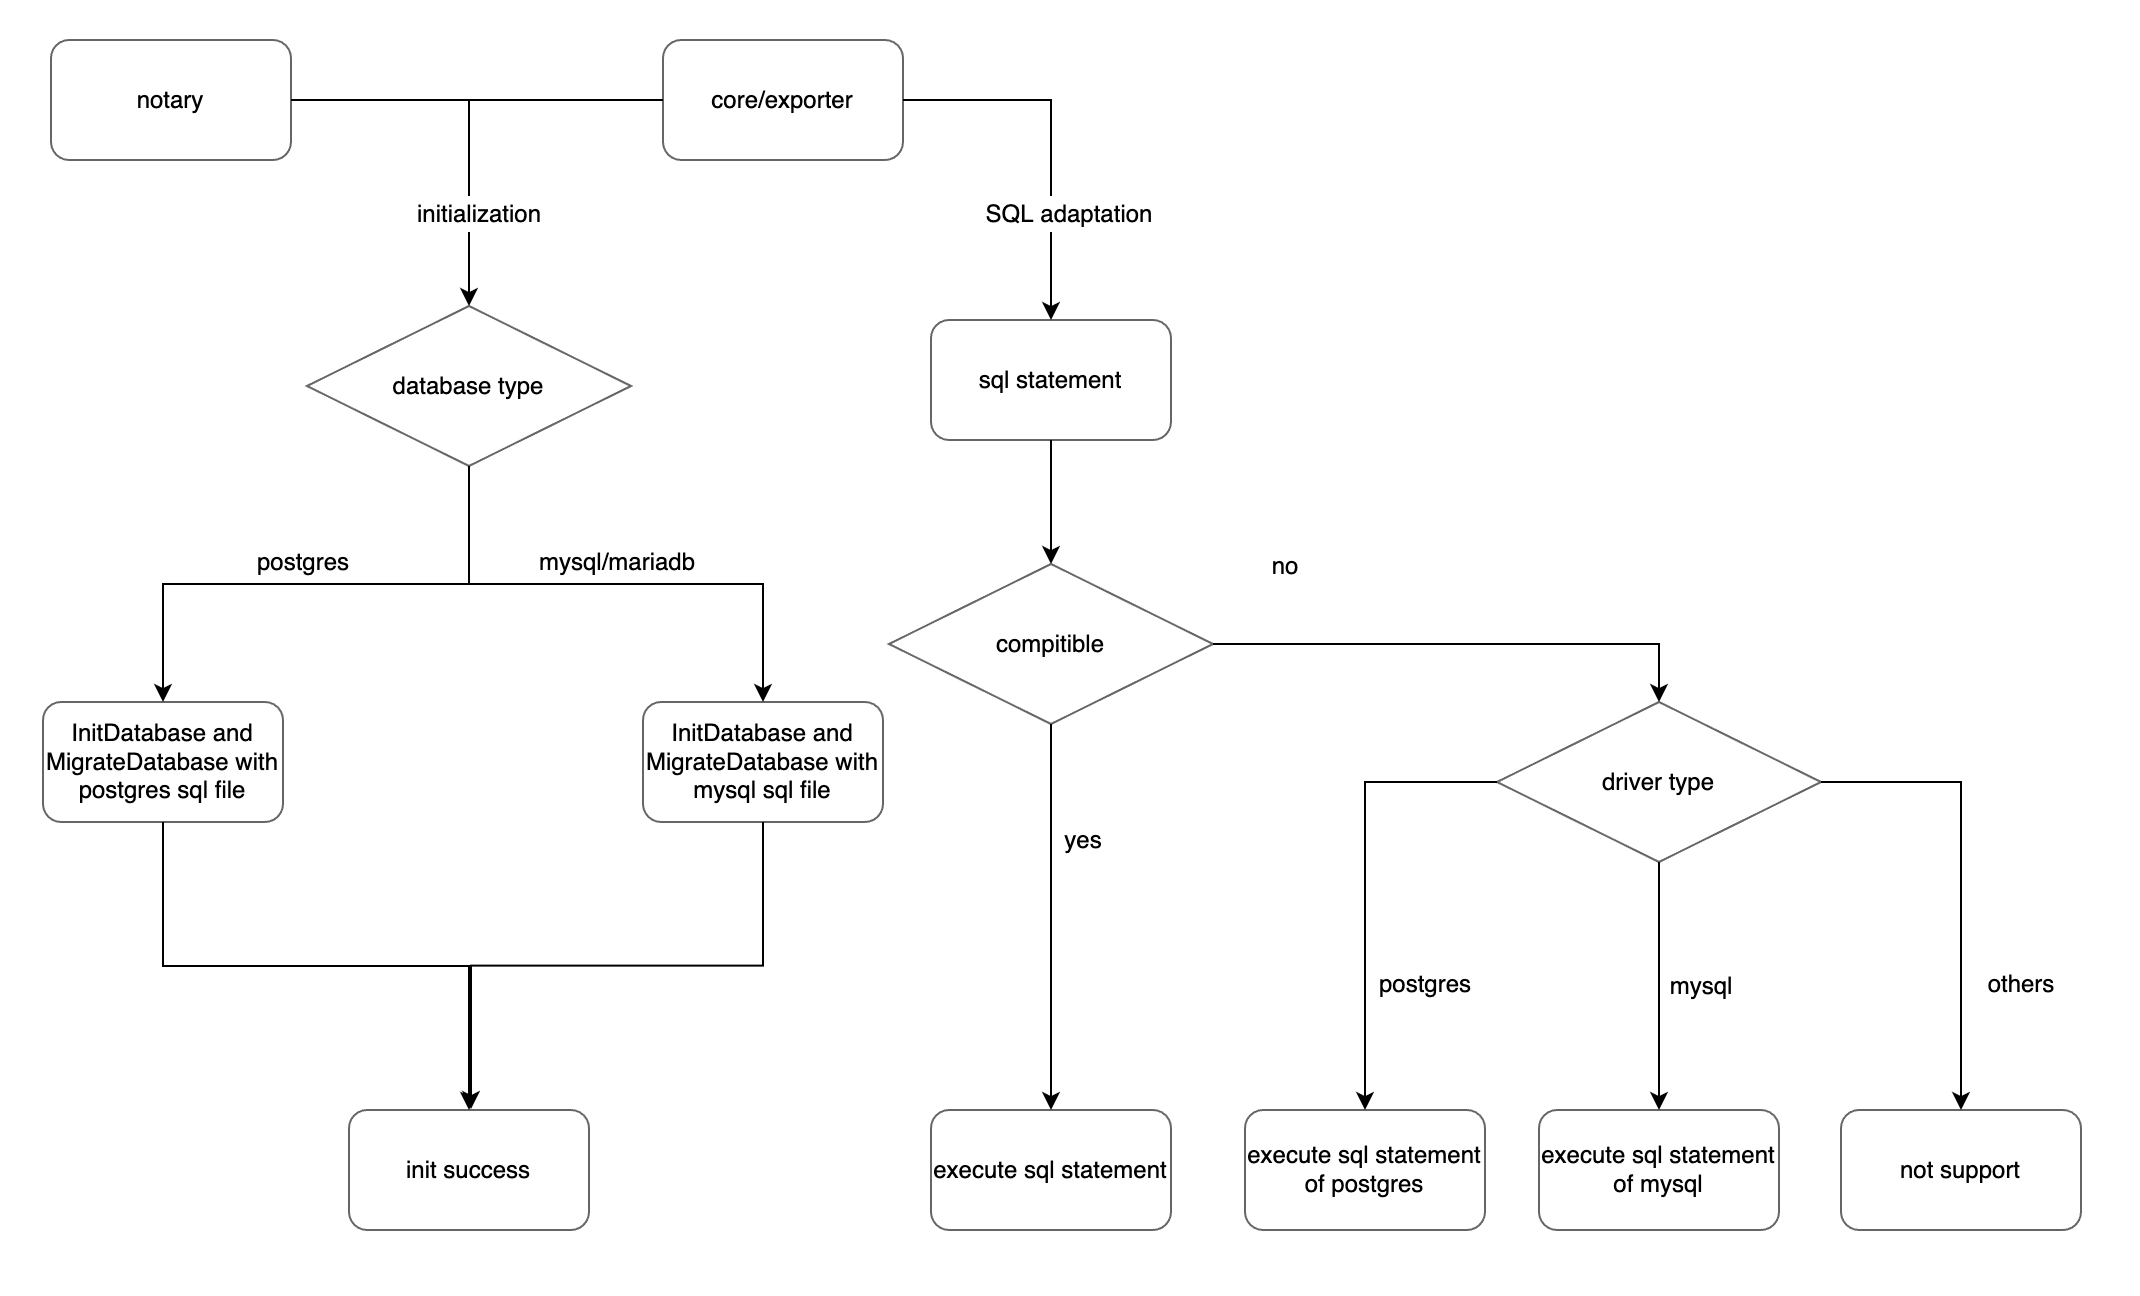
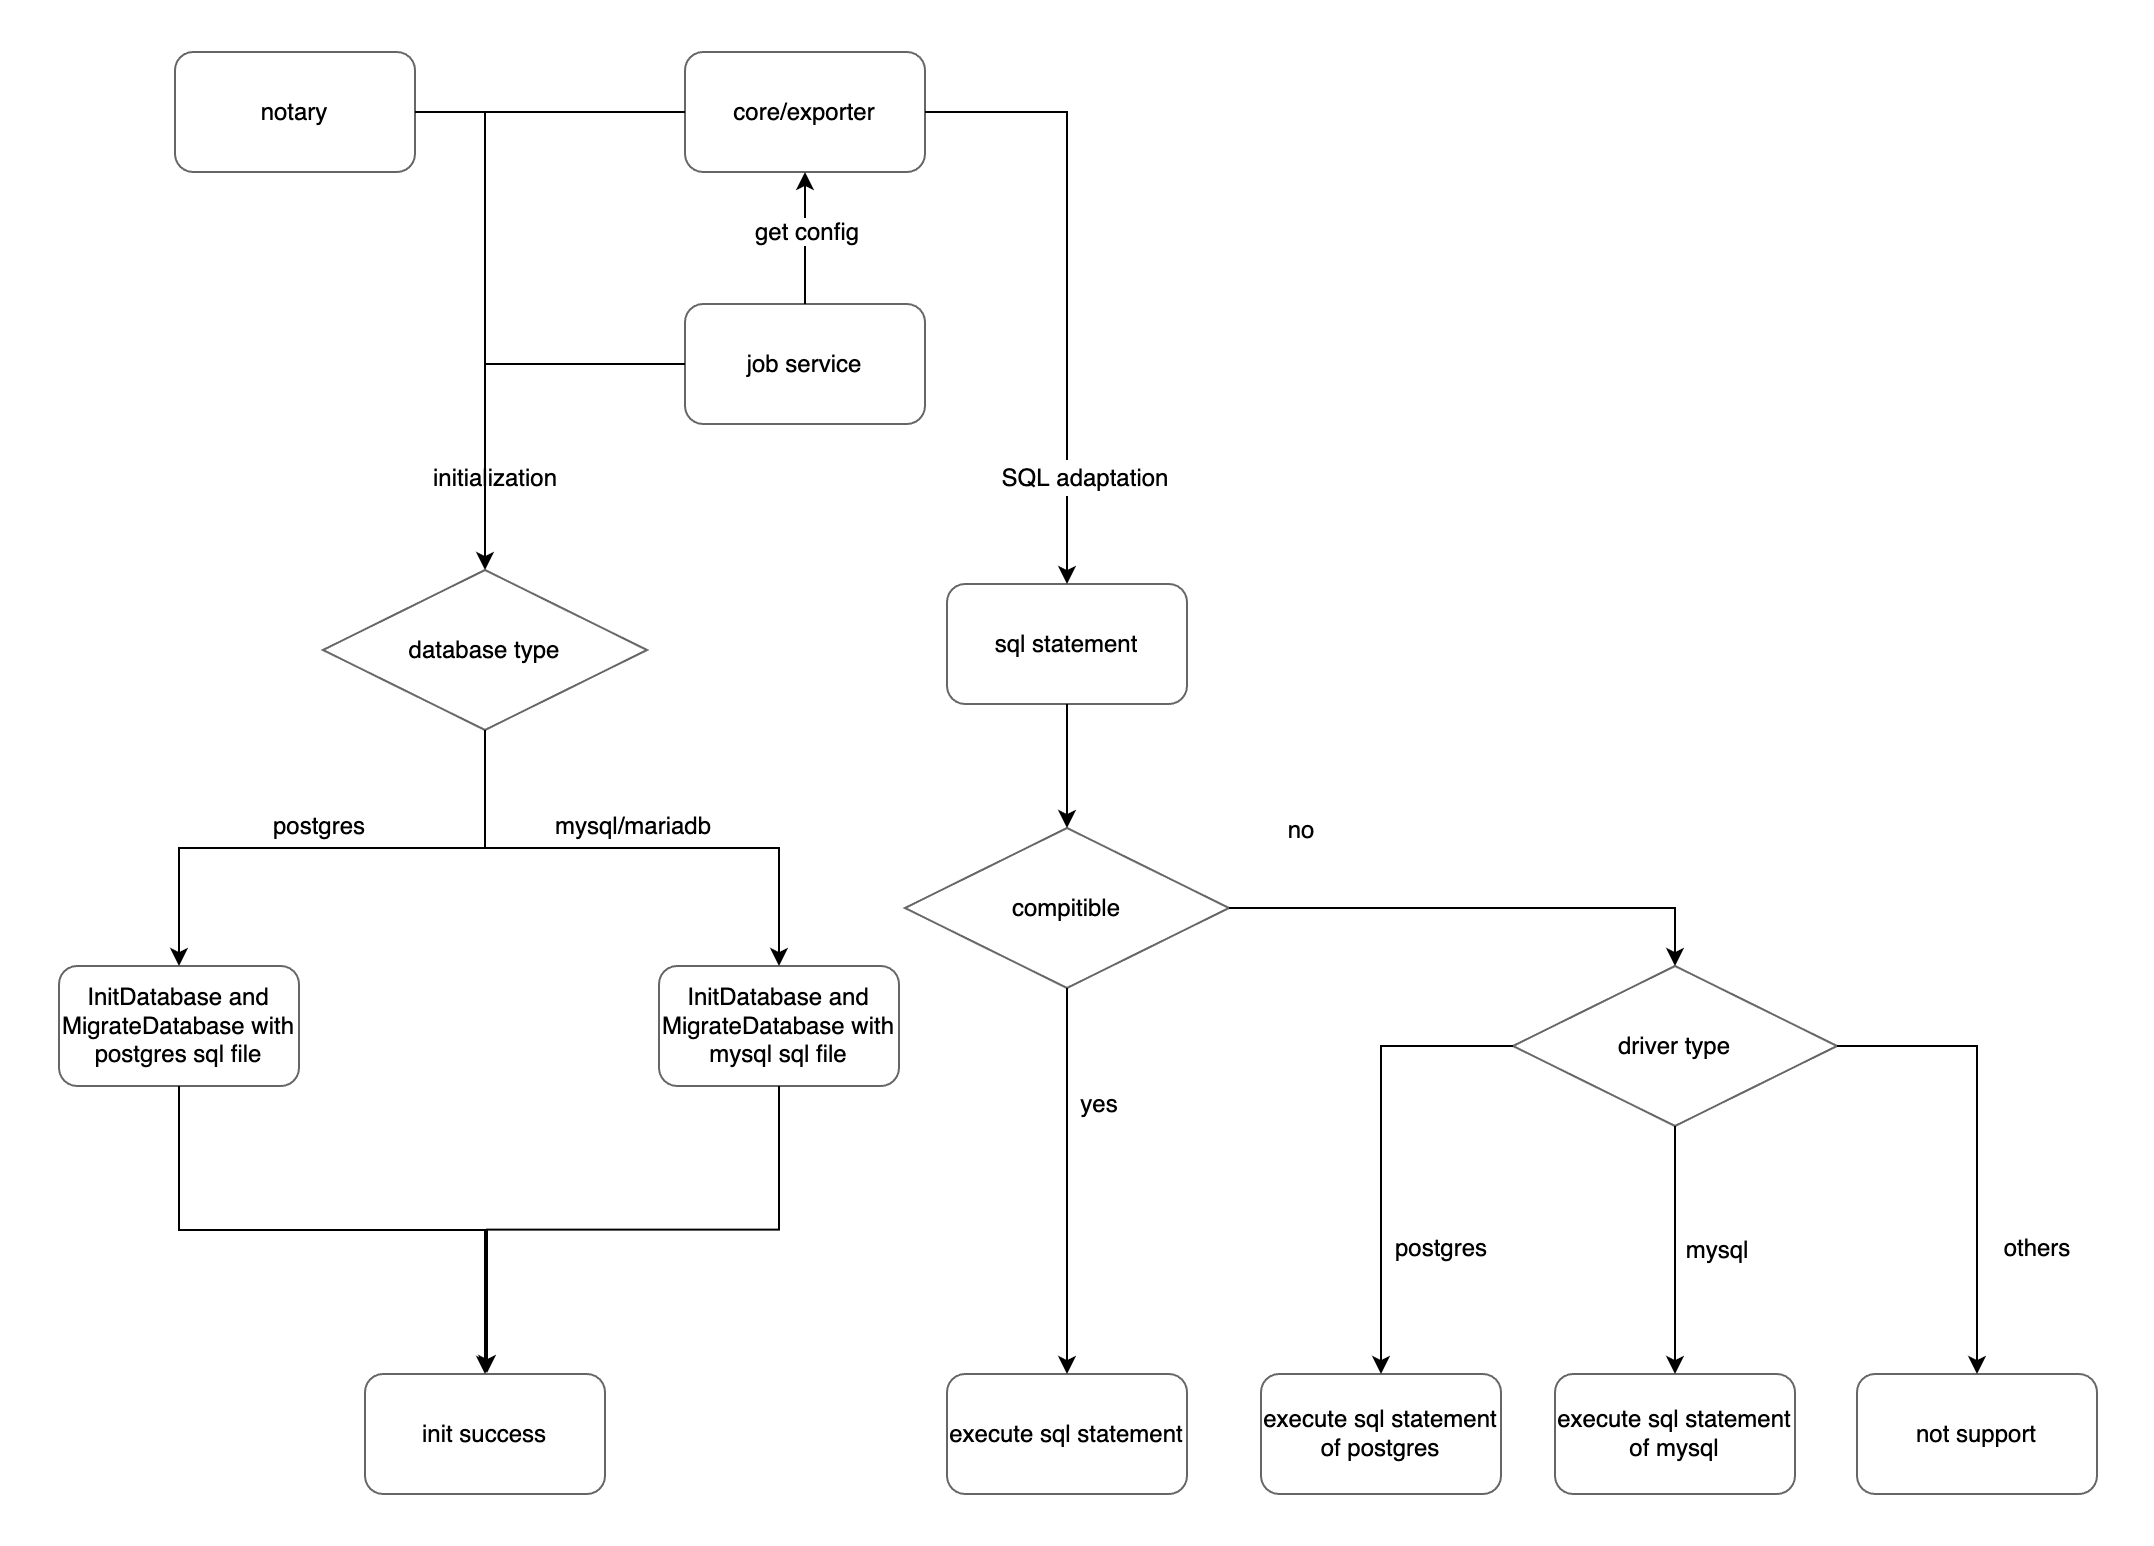
Update the figure

diff --git a/proposals/adapt_multiple_type_of_database.md b/proposals/adapt_multiple_type_of_database.md
@@ -52,38 +52,11 @@ Implement Database interface to support MariaDB/MySQL.
 
 ### Component Detail
 
-**Core/Exporter/Notary** 
+**Core/JobService/Exporter/Notary** 
 
 ![logic.png](images/multidb/logic.png)
 
 ### Database Compatibility Testing
-
-**MariaDB 10.5.9**
-
-sql file | Compatibility test | comment
-------------|------------|------------
- | 0001_initial_schema.up.sql | Pass | xxx
- | 0002_1.7.0_schema.up.sql | Pass | xxx
- | 0003_add_replication_op_uuid.up.sql | Pass | xxx 
- | 0004_1.8.0_schema.up.sql | Pass | xxx 
- | 0005_1.8.2_schema.up.sql | Pass | xxx 
- | 0010_1.9.0_schema.up.sql | Pass | xxx 
- | 0011_1.9.1_schema.up.sql | Pass | xxx 
- | 0012_1.9.4_schema.up.sql | Pass | xxx 
- | 0015_1.10.0_schema.up.sql | Pass | xxx 
- | 0030_2.0.0_schema.up.sql | Pass | xxx 
- | 0031_2.0.3_schema.up.sql | Pass | xxx 
- | 0040_2.1.0_schema.up.sql | Pass | xxx 
- | 0041_2.1.4_schema.up.sql | Pass | xxx 
- | 0050_2.2.0_schema.up.sql | Pass | xxx 
- | 0051_2.2.1_schema.up.sql | Pass | xxx 
- | 0052_2.2.2_schema.up.sql | Pass | xxx 
- | 0053_2.2.3_schema.up.sql | Pass | xxx 
- | 0060_2.3.0_schema.up.sql | Pass | xxx 
- | 0061_2.3.4_schema.up.sql | Pass | xxx 
- | 0070_2.4.0_schema.up.sql | Pass | xxx 
- | 0071_2.4.2_schema.up.sql | Pass | xxx 
- | 0080_2.5.0_schema.up.sql | Pass | xxx 
 
 **MySQL 8.0**
 
@@ -112,6 +85,32 @@ sql file | Compatibility test | comment
  | 0071_2.4.2_schema.up.sql | Pass | xxx 
  | 0080_2.5.0_schema.up.sql | Pass | xxx 
 
+**MariaDB 10.5.9**
+
+sql file | Compatibility test | comment
+------------|------------|------------
+ | 0001_initial_schema.up.sql | Pass | xxx
+ | 0002_1.7.0_schema.up.sql | Pass | xxx
+ | 0003_add_replication_op_uuid.up.sql | Pass | xxx 
+ | 0004_1.8.0_schema.up.sql | Pass | xxx 
+ | 0005_1.8.2_schema.up.sql | Pass | xxx 
+ | 0010_1.9.0_schema.up.sql | Pass | xxx 
+ | 0011_1.9.1_schema.up.sql | Pass | xxx 
+ | 0012_1.9.4_schema.up.sql | Pass | xxx 
+ | 0015_1.10.0_schema.up.sql | Pass | xxx 
+ | 0030_2.0.0_schema.up.sql | Pass | xxx 
+ | 0031_2.0.3_schema.up.sql | Pass | xxx 
+ | 0040_2.1.0_schema.up.sql |  | xxx 
+ | 0041_2.1.4_schema.up.sql | Pass | xxx 
+ | 0050_2.2.0_schema.up.sql | Pass | xxx 
+ | 0051_2.2.1_schema.up.sql | Pass | xxx 
+ | 0052_2.2.2_schema.up.sql | Pass | xxx 
+ | 0053_2.2.3_schema.up.sql | Pass | xxx 
+ | 0060_2.3.0_schema.up.sql | Pass | xxx 
+ | 0061_2.3.4_schema.up.sql | Pass | xxx 
+ | 0070_2.4.0_schema.up.sql | Pass | xxx 
+ | 0071_2.4.2_schema.up.sql | Pass | xxx 
+ | 0080_2.5.0_schema.up.sql | Pass | xxx 
 
 ### How To Use
 
